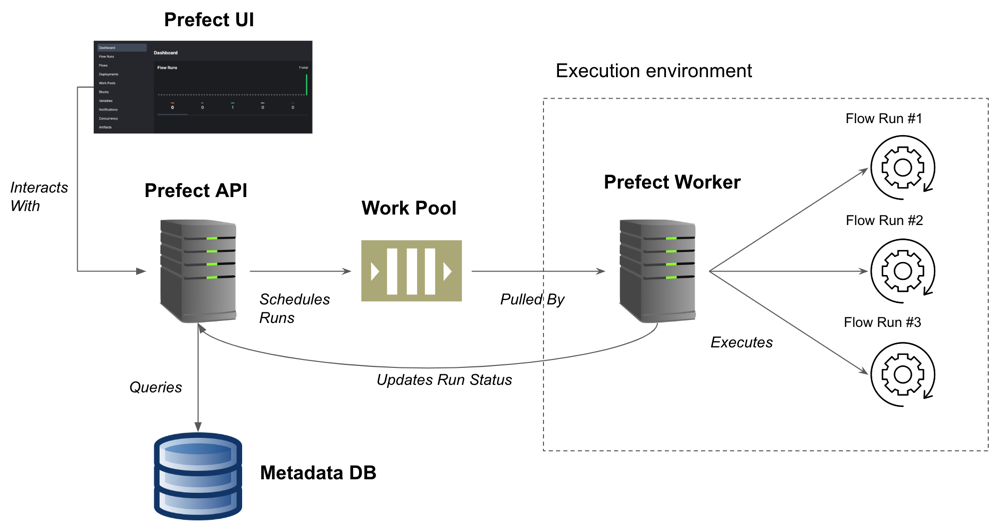
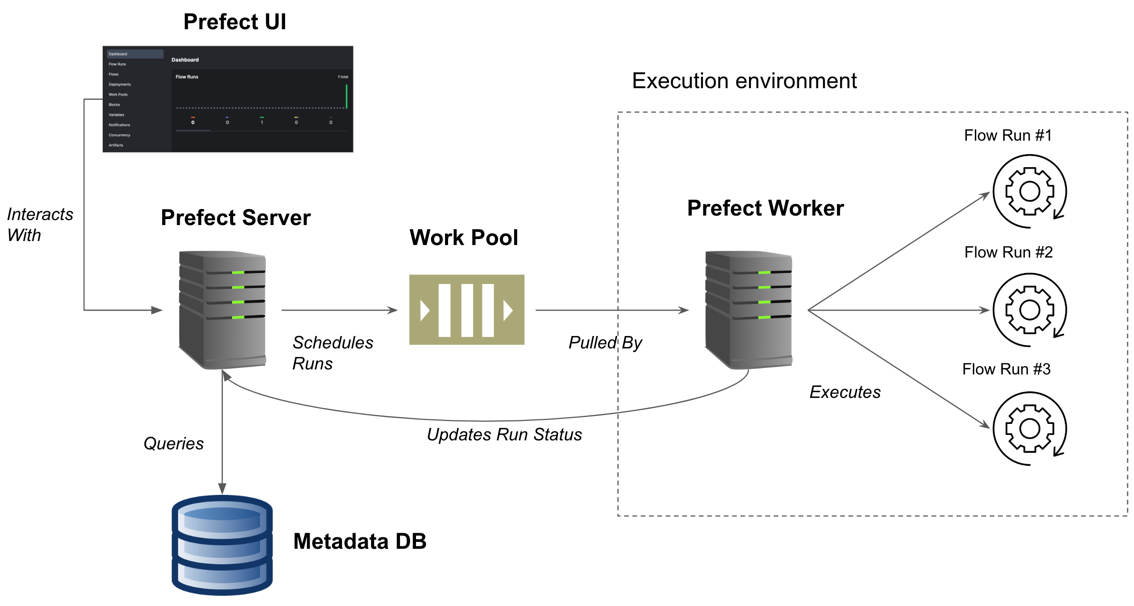
Prefect api part 2 deployments (#6)
* part 2

* part 2

* part 2

* part 2

* part 2

---------

diff --git a/content/posts/scheduling-api-requests-with-prefect-part-2.md b/content/posts/scheduling-api-requests-with-prefect-part-2.md
@@ -1,25 +1,120 @@
 +++
 title = 'Scheduling API Requests With Prefect - Part 2'
-date = 2023-09-10T08:09:53+03:00
-draft = true
+date = 2023-09-14T08:09:53+03:00
+draft = false
 +++
+
+_Note: This post is part of a series of posts about Prefect. If you haven't read the [previous post](/posts/scheduling-api-requests-with-prefect-part-1/), I recommend reading it first._
 
 ## Introduction
 
 In the [previous post](/posts/scheduling-api-requests-with-prefect-part-1/), we have learned about Prefect,
 and we have created a simple Prefect flow that makes a GET request to the Bored API, prints the response to the console, and saves it as a Prefect artifact.
+Nevertheless, we ran our flow directly from the CLI as a Python script.
+Although it works, it is not a good solution for scheduling our flow in production. 
 
 In this post, we will learn how to schedule our flow to run every day at 9:00 AM.
+By the end of this post, we will have a Prefect flow that makes a GET request to the Bored API every day at 9:00 AM, and saves the response as a Prefect artifact.
 
-Now it is a good time to get familiar with the Prefect UI. 
+## Assumptions
 
-In order to do that, let's start the Prefect server:
+As in the previous post, we will assume that we have a Python 3.10+ environment with Prefect installed. This time, we will also assume that we have the code from the [previous post](/posts/scheduling-api-requests-with-prefect-part-1/) in our project.
+You may also view the source code for this post [here](https://github.com/ohadch/ohad-dev-blog-examples/tree/master/prefect-schedule-api-requests).
+
+Once again, we will only cover the basics of each topic. 
+For more details, please refer to the [Prefect documentation](https://docs.prefect.io/).
+
+## Prefect Architecture
+
+Before we dive into the details, we need to have a basic understanding of the Prefect architecture.
+
+![Prefect Architecture](/posts/scheduling-api-requests-with-prefect-part-2/prefect-architecture.png)
+
+As we can see in the image above, Prefect consists of following components:
+- **Prefect Server**: Python server that is responsible for managing the Prefect API, registering flows, and storing flow runs and artifacts.
+- **Prefect UI**: Web application client for Prefect Server.
+- **Work pools**: Like a pub/sub topic that is used to distribute work to Prefect workers.
+- **Prefect worker**: Python server that lives on the execution environment. It is responsible for pulling flow runs from the work pool, and executing them.
+
+_Of course, this is a simplified view of the Prefect architecture. For more details, please refer to the [Prefect documentation](https://docs.prefect.io/)._
+
+## The Deployment Pattern
+
+In a nutshell, we need to deploy our flow as a Prefect deployment, 
+and then schedule the deployment to be pulled by a Prefect worker every day at 9:00 AM.
+
+It all comes together like this:
+1. We create a Prefect flow (that's what we did in the [previous post](/posts/scheduling-api-requests-with-prefect-part-1/)).
+2. We deploy the flow as a **Prefect Deployment**: a versioned and executable representation of a flow. 
+   A deployment is the entity that connects the flow code to the execution environment.
+3. We schedule the deployment to be pulled by a Prefect worker every day at 9:00 AM.
+4. The Prefect worker pulls the deployment from the work pool, and executes it on the execution environment where it lives.
+5. Upon completion (or failure) of the flow run, the Prefect worker informs the Prefect API about the result.
+
+## Deploying our Flow
+
+Prefect allows us to deploy our flow using a YAML file, or using the Python API. In this post, we will deploy our flow using the Python API.
+
+### Creating a deployment
+
+Let's add a new `deploy.py` file to the root of our project. Then, let's add the following code to it:
+
+```python
+import asyncio
+from prefect.deployments import Deployment
+from flows.suggest_activity import suggest_activity
+
+
+async def main():
+    # This line creates a deployment for the flow, which will be scheduled to run every day at 9:00 AM
+    deployment = await Deployment.build_from_flow(
+        name="Daily",
+        flow=suggest_activity,
+        work_pool_name="activities"
+    )
+
+    await deployment.apply()
+
+    print("Deployment created!")
+
+
+if __name__ == '__main__':
+    asyncio.run(main())
+```
+
+As we can see, we are importing our flow from the `flows.suggest_activity` module, 
+as well as the `Deployment` class from the `prefect.deployments` module and the `asyncio` module.
+
+The reason for importing the `asyncio` module is that the Prefect API is asynchronous,
+and in order to use it, we need to run our code in an `async` function. That's why we are using the `asyncio.run()` method to run our `main()` function.
+If you are not familiar with the `asyncio` module, I recommend reading [this article](https://realpython.com/async-io-python/).
+
+In the `main()` function, we are creating a new deployment for our flow. Note that we are passing the `work_pool_name` argument to the `Deployment.build_from_flow()` method.
+Later, we will pass the same name to the `prefect worker start` command, so that the Prefect worker will pull the deployment from the correct work pool.
+Finally, we are applying the deployment to the Prefect API by calling the `apply()` method.
+
+That's all the code we need to create a deployment for our flow. Please note, that we are not scheduling the deployment to run every day at 9:00 AM yet.
+We will do that later using the Prefect UI.
+
+Finally, run the following command in the CLI to deploy our flow:
+
+```bash
+python deploy.py
+```
+
+Now, let's learn how to spin up the environment and run the deployment.
+
+### Launching the Prefect environment
+
+In order to run our deployment, we need to launch a Prefect server and a Prefect worker.
+
+In order to launch the Prefect server, we need to run the following command in the CLI:
 
 ```bash
 prefect server start
 ```
 
-If everything went well, you should see an output similar to the following in the CLI:
+If everything goes well, we should see the following output:
 
 ```
  ___ ___ ___ ___ ___ ___ _____ 
@@ -36,42 +131,114 @@ View the API reference documentation at http://127.0.0.1:4200/docs
 Check out the dashboard at http://127.0.0.1:4200
 ```
 
-Now, let's open the Prefect UI in our browser by navigating to `http://localhost:4200`.
+As we can see, the Prefect server is now running on `http://localhost:4200`.
 
+Now, open a new terminal window, and run the following command to launch a Prefect worker:
+
+```bash
+prefect worker start -p activities
+```
+
+This command will launch a `local-process` Prefect worker that will pull deployments from the `activities` work pool. 
+This is the same work pool that we have passed to the `Deployment.build_from_flow()` method in the `deploy.py` file.
+
+In production, we would probably use another worker type, such as `kubernetes` or `ecs`. 
+But for the sake of simplicity, we will use the `local-process` worker.
+
+If everything goes well, we should see the following output:
+
+```
+Work pool 'activities' does not exist and no worker type was provided. Starting a process worker...   
+Worker 'ProcessWorker 295d558e-5ade-47e7-8bf9-21f4989fdd8d' started!
+21:45:34.717 | INFO    | prefect.worker.process.processworker 295d558e-5ade-47e7-8bf9-21f4989fdd8d - Work pool 'activities' created.
+```
+
+Keep this window open as well. Now, Our deployment is ready to be tested. It's a good time to get familiar with the Prefect UI.
+
+## The Prefect UI
+
+Let's open the Prefect UI in our browser by navigating to `http://localhost:4200`.
 You should see a screen similar to this:
+
 ![Prefect UI](/posts/scheduling-api-requests-with-prefect-part-2/prefect-dashboard.png)
 
+Currently, we see the dashboard page, that gives us a high level overview of our flow runs and work pools. 
+Let's navigate to the **Deployments** page by clicking on the **Deployments** link in the sidebar.
 
-This is the Prefect UI. Currently, we see the dashboard page, 
+![Prefect UI - Deployments](/posts/scheduling-api-requests-with-prefect-part-2/deployments-page.png)
 
-Inside the `Flow Runs` box, we see flow runs broken down by state. 
-By default, we see the flow runs that are in `Crashed` state, as they are probably the ones that require our attention.
+As we can see, our `suggest-activity / Daily` deployment is listed in the deployments table.
+Also, we can see that the deployment is not scheduled yet - we know that because the schedule column is empty.
+Let's trigger a flow run by clicking on three dots icon on the right side of the table, and then clicking on the **Custom Run** button:
 
-The tab in the middle that shows '1' is the `Completed` tab. It shows the flow runs that ended in `Completed` state.
+![Prefect UI - Deployments - Custom Run](/posts/scheduling-api-requests-with-prefect-part-2/deployment-custom-run.png)
 
-## Understanding Prefect Architecture
+We will be redirected to the **Run** page, where we can modify the flow run parameters (if we had any), 
+and trigger the flow run by clicking on the **Submit** button:
 
-In the previous post, we have created a Prefect flow and ran it as a local process.
-Although it works, it is not a good solution for scheduling our flow to run every day at 9:00 AM.
+![Prefect UI - Run](/posts/scheduling-api-requests-with-prefect-part-2/deployment-run-page.png)
 
-In order to schedule our flow to run every day at 9:00 AM, we need to deploy it as a Prefect deployment,
-that can be scheduled to be pulled by a Prefect worker and executed on an environment of our choice.
+Let's click on the **Submit** button. We should be redirected to the **Deployment Runs** page, where we can see the flow run that we have just triggered:
 
-Let's dive into Prefect architecture to understand how this works.
+![Prefect UI - Deployment Runs](/posts/scheduling-api-requests-with-prefect-part-2/deployment-runs.png)
 
-![Prefect Architecture](/posts/scheduling-api-requests-with-prefect-part-2/prefect-architecture.png)
+In the background, the Prefect worker is pulling the deployment from the work pool, and executing it as a local process.
 
-As you can see in the image above, Prefect consists of following components:
-- Prefect API: The Prefect API is a REST API that is used to manage flows, flow runs, and deployments.
-- Prefect UI: The Prefect UI is a web application that is used to manage flows, flow runs, deployments and more.
-- Work pools: A work pool is a kind of a queue that is used to store flow runs that are ready to be executed.
-- Prefect worker: The Prefect worker is a Python server that lives on the execution environment. It is responsible for pulling flow runs from the work pool, and executing them.
+Let's click on the flow run's name (in our case, it's `pi68-humboldt`) to go to the flow run's page:
 
-So, in order to schedule our flow to run every day at 9:00 AM, we need to deploy it as a Prefect deployment,
-and then schedule the deployment to be pulled by a Prefect worker every day at 9:00 AM.
+![Prefect UI - Flow Run](/posts/scheduling-api-requests-with-prefect-part-2/flow-run-page.png)
 
-Let's see how we can do that.
+At the top of the page, we can see a representation of our flow's DAG. Each task is clickable, and the color of the task indicates its status.
+Under the DAG, we can see the flow run's logs, as well as tabs for the flow run's artifacts, parameters and more.
 
-## Deploying a Prefect flow
+Let's click on the **Artifacts** tab to see the flow run's artifacts:
 
-TBD...
+![Prefect UI - Flow Run - Artifacts](/posts/scheduling-api-requests-with-prefect-part-2/flow-run-artifacts.png)
+
+We can see that our flow run has one artifact, which is the response from the Bored API. Let's click on the artifact's card to see its details:
+
+![Prefect UI - Activity Artifact](/posts/scheduling-api-requests-with-prefect-part-2/activity-artifact.png)
+
+Success! We can see that the artifact contains the response from the Bored API. The only thing left to do is to schedule our deployment to run every day at 9:00 AM.
+
+## Scheduling our deployment
+
+Let's head back to the **Deployments** page (using the sidebar), 
+click on the three dots icon on the right side of our `suggest-activity / Daily` deployment, 
+and then click on the **Edit** button:
+
+![Prefect UI - Deployments - Edit](/posts/scheduling-api-requests-with-prefect-part-2/deployment-edit-button.png)
+
+We will be redirected to the **Edit Deployment** page. Let's scroll down to the **Scheduling** section, and click on the **Add** button:
+
+![Prefect UI - Deployments - Edit - Add Schedule Button](/posts/scheduling-api-requests-with-prefect-part-2/deployment-add-schedule-button.png)
+
+The **Add Schedule** modal will appear. 
+Let's select the **Cron** option, and then type `0 9 * * *` in the **Cron Expression** field. 
+If you are not familiar with cron expressions, 
+I recommend heading over to [crontab.guru](https://crontab.guru/) and playing around with it.
+
+This is how the modal should look like:
+
+![Prefect UI - Deployments - Edit - Add Schedule](/posts/scheduling-api-requests-with-prefect-part-2/deployment-add-schedule.png)
+
+Then, let's click on the **Save** button to add the schedule to our deployment. The modal will close, and we will be redirected to the **Edit Deployment** page.
+Finally, let's click on the **Save** button to save our deployment. We should be redirected to the **Deployments** page. As we can see, our deployment is now scheduled to run every day at 9:00 AM:
+
+![Prefect UI - Deployments - Scheduled](/posts/scheduling-api-requests-with-prefect-part-2/deployments-page-with-schedule.png)
+
+That's it! We have successfully scheduled our flow to run every day at 9:00 AM. As long as the Prefect server and worker are running, our flow will run every day at 9:00 AM, and suggest new activities for us to do.
+
+## Conclusion
+
+That wraps up this post and the series. 
+
+We have learned how to schedule our flow to run every day at 9:00 AM, and we have learned how to use the Prefect UI to monitor our flow runs and artifacts.
+
+I hope you have enjoyed this series, and that you have learned something new. I would love to hear your thoughts and feedback, so feel free to reach out to me on [Twitter](https://twitter.com/ohadchaet).
+
+Thanks for reading, and see you next time!
+
+
+
+

diff --git a/content/posts/scheduling-api-requests-with-prefect-part-1.md b/content/posts/scheduling-api-requests-with-prefect-part-1.md
@@ -19,12 +19,12 @@ You may view the source code for this post [here](https://github.com/ohadch/ohad
 
 ## Assumptions
 
-In this post, I will assume that you have a basic understanding of Python. 
+In this post, we will assume that you have a basic understanding of Python. 
 You do not need to have any prior knowledge of Prefect. 
 I will also assume that you have a basic understanding of APIs. 
 
-In this post, I attempt to demonstrate an end-to-end solution that is simple enough for those who are new to prefect and DAGs.
-Hence, I will only cover the basics of each topic.
+In this post, we attempt to demonstrate an end-to-end solution that is simple enough for those who are new to prefect and DAGs.
+Hence, we will only cover the basics of each topic.
 If you want to learn more about Prefect, I recommend you to check out the [Prefect documentation](https://docs.prefect.io/).
 
 ## Understanding DAGs (Directed Acyclic Graphs)
